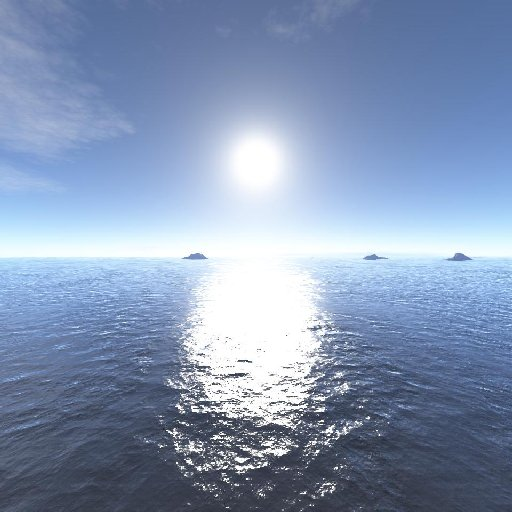
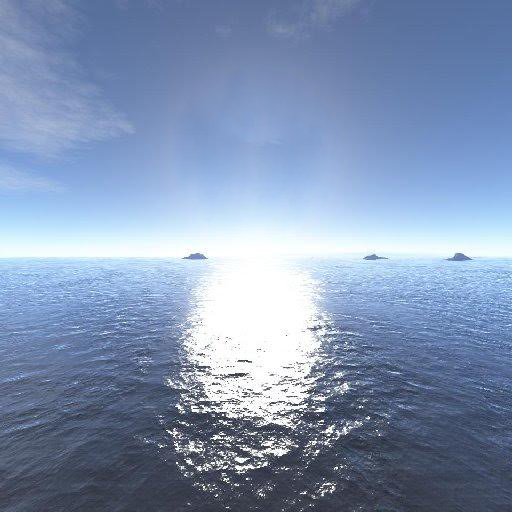
Sunset complete

Changed region(s): [[0.3438, 0.1875, 0.625, 0.4375]]

diff --git a/threejs-starter/app/js/main.js b/threejs-starter/app/js/main.js
@@ -24,60 +24,68 @@ export default class App {
         //Counter for moving ship
         this.counterShip = 0;
 
+
+
+        this.sunAdjust = -0.04;
+        this.lightIntensity = 1.0;
+
         const c = document.getElementById('mycanvas');
         // Enable antialias for smoother lines
         this.renderer = new THREE.WebGLRenderer({canvas: c, antialias: true});
         this.scene = new THREE.Scene();
         this.camera = new THREE.PerspectiveCamera(75, 4/3, 0.5, 1000);
+        this.camera.position.z = 100;
 
         //Position for non VR
         //height of average human 5.6ft standing atop the platform 10ft above water level
-        this.camera.position.set(60, 15.6, 0);
+        //this.camera.position.set(0, 0, 0);
 
 
         // const orbiter = new OrbitControls(this.camera);
         // orbiter.enableZoom = false;
         // orbiter.update();
 
+        this.tracker = new TrackballControls(this.camera, c);
+        this.tracker.rotateSpeed = 2.0;
+        this.tracker.noZoom = false;
+        this.tracker.noPan = false;
+
         window.addEventListener('deviceorientation', event => {
            //TODO: Use event.alpha, event.beta, event.gamma to update camera matrix
         });
 
-        //VR controls
-        const polyfill = new WebVRPolyfill();
-        navigator.getVRDisplays().then(displays => {
-            if (displays.length > 0) {
-                // WebVR is supported
-                display = displays[0];
-                camControl = new VRControls(this.camera);
+        // //VR controls
+        // const polyfill = new WebVRPolyfill();
+        // navigator.getVRDisplays().then(displays => {
+        //     if (displays.length > 0) {
+        //         // WebVR is supported
+        //         display = displays[0];
+        //         camControl = new VRControls(this.camera);
+        //
+        //         //this allows the camera to be set to an initial spot
+        //         this.dolly = new THREE.Group();
+        //         this.dolly.position.set( 0, 15.6, 10 );
+        //         this.scene.add( this.dolly );
+        //         this.dolly.add( this.camera);
+        //
+        //     } else {
+        //         // WebVR is NOT supported, fallback to trackball control
+        //         display = window;
+        //         this.tracker = new TrackballControls(this.camera, c);
+        //         this.tracker.rotateSpeed = 2.0;
+        //         this.tracker.noZoom = false;
+        //         this.tracker.noPan = false;
+        //         camControl = this.tracker;
+        //     }
+        //     //display.requestAnimationFrame(this.render);
+        // });
 
-                //this allows the camera to be set to an initial spot
-                this.dolly = new THREE.Group();
-                this.dolly.position.set( 240, 15.6, 10 );
-                this.scene.add( this.dolly );
-                this.dolly.add( this.camera);
-
-            } else {
-                // WebVR is NOT supported, fallback to trackball control
-                display = window;
-                this.tracker = new TrackballControls(this.camera, c);
-                this.tracker.rotateSpeed = 2.0;
-                this.tracker.noZoom = false;
-                this.tracker.noPan = false;
-                camControl = this.tracker;
-            }
-            //display.requestAnimationFrame(this.render);
-        });
 
 
-        // this.tracker = new TrackballControls(this.camera, c);
-        // this.tracker.rotateSpeed = 2.0;
-        // this.tracker.noZoom = false;
-        // this.tracker.noPan = false;
 
-        const lightOne = new THREE.AmbientLight (0xFFFFFF, 0.5);
-        lightOne.position.set (-50, 40, 100);
-        this.scene.add (lightOne);
+        this.lightOne = new THREE.AmbientLight (0xFFFFFF, this.lightIntensity);
+        //this.lightOne.position.set (-50, 40, 100);
+        this.scene.add (this.lightOne);
 
         this.water = new Floor();
         this.scene.add(this.water);
@@ -92,25 +100,12 @@ export default class App {
 
         this.sun = new Sun();
         this.sun.matrixAutoUpdate = false;
-        let trans = new THREE.Matrix4().makeTranslation(0, 150, 550);
-        this.sun.matrix.multiply(trans);
         this.scene.add(this.sun);
+        let trans = new THREE.Matrix4().makeTranslation(0, 150, 400);
+        this.sun.matrix.multiply(trans);
 
 
-        // var loader = new THREE.ObjectLoader();
-        // loader.load("/app/js/models/fishing-boat-threejs/fishing-boat.json", (obj) => {this.scene.add(obj)});
-
-
-
-        this.thingy = new THREE.Object3D;
         this.loader = new THREE.ObjectLoader();
-
-        //this.fishBoat = null;
-
-        // Cooler container that has images all messed up.
-        //this.loader.load("/app/js/models/boat-threejs/boat.json", (obj) => {this.scene.add(obj)});
-
-
 
         this.fBoat = new FishBoat();
         this.scene.add(this.fBoat);
@@ -147,15 +142,10 @@ export default class App {
 
     }
 
-    // objectLoad(obj){
-    //     this.scene.add(obj);
-    // }
-
-
     render() {
         this.renderer.render(this.scene, this.camera);
-        camControl.update();
-        //this.tracker.update();
+        //camControl.update();
+        this.tracker.update();
         //display.requestAnimationFrame(this.render);
 
         let trans = new THREE.Matrix4().makeTranslation(-0.1,0,0);
@@ -163,9 +153,27 @@ export default class App {
         this.fBoat.matrix.multiply(trans);
         this.fBoat.matrix.multiply(rotY);
 
+        let rotX = new THREE.Matrix4().makeRotationX(THREE.Math.degToRad(this.sunAdjust));
+        this.sun.matrix.premultiply(rotX);
 
+        let position = new THREE.Vector3();
+        position.setFromMatrixPosition( this.sun.matrixWorld );
 
-        requestAnimationFrame(() => this.render());
+        if (position.y < 200 && position.y > 0) {
+            this.sun.editColor(position.y);
+            let intensitySub =  ((200 - position.y) / 200) * 0.7;
+            this.lightIntensity = 1 - intensitySub;
+            this.lightOne.intensity = this.lightIntensity;
+        }
+
+        if (position.y < -50){
+            this.sunAdjust = -0.5;
+            this.sun.dimLight(0);
+        }
+        else{
+            this.sunAdjust = -0.04;
+            this.sun.dimLight(1.0 - this.lightIntensity);
+        }
 
         // Move crane box up and down
         this.counter++;
@@ -198,6 +206,7 @@ export default class App {
             this.counterShip = 0;
         }
 
+        requestAnimationFrame(() => this.render());
 
     }
 

diff --git a/threejs-starter/app/js/models/Sun.js b/threejs-starter/app/js/models/Sun.js
@@ -1,25 +1,43 @@
-import {SphereGeometry, MeshBasicMaterial, Mesh, Group, SpotLight} from 'three';
+import {SphereGeometry, MeshBasicMaterial, Mesh, Group, SpotLight, Color} from 'three';
 //import Water from "/Users/ryanwalt/Downloads/CODE/WebstormProjects/Virtual_Sea_Port/threejs-starter/Images/tex_Water.jpg";
 
-export default class Sun {
+export default class Sun extends Group{
     constructor () {
-        let g = new Group();
+        super();
 
-        var geometry = new SphereGeometry( 5, 32, 32 );
-        var material = new MeshBasicMaterial( {color: 0xffffff} );
-        var sphere = new Mesh( geometry, material );
-        g.add( sphere );
+        this.lightColor = "rgb(255,255,255)"
 
-        var spotLight = new SpotLight(0xffffff, 1.0);
+        var geometry = new SphereGeometry( 25, 32, 32 );
+        var material = new MeshBasicMaterial( {color: this.lightColor} );
+        this.sphere = new Mesh( geometry, material );
+        this.add( this.sphere );
+
+        this.spotLight = new SpotLight(this.lightColor, 1.0);
         //spotLight.castShadow = true;
-        spotLight.shadow.mapSize.width = 2000;
-        spotLight.shadow.mapSize.height = 2000;
-        spotLight.shadow.camera.near = 500;
-        spotLight.shadow.camera.far = 4000;
-        spotLight.shadow.camera.fov = 30;
+        this.spotLight.shadow.mapSize.width = 2000;
+        this.spotLight.shadow.mapSize.height = 2000;
+        this.spotLight.shadow.camera.near = 500;
+        this.spotLight.shadow.camera.far = 4000;
+        this.spotLight.shadow.camera.fov = 30;
+        this.add(this.spotLight);
+    }
 
-        g.add(spotLight);
+    editColor(yVal){
 
-        return g;   // the constructor must return the entire group
+        //let newSub = 200 - ((yVal/200) * 200);
+        let percent = (200 - yVal)/200;
+        let newG = 255 - (percent * 128);
+        let newB = 255 - (percent * 255);
+
+        newG = Math.round(newG);
+        newB = Math.round(newB);
+
+        this.lightColor = "rgb(255," + newG + "," + newB + ")";
+        this.sphere.material.color = new Color(this.lightColor);
+        this.spotLight.color = new Color(this.lightColor);
+    }
+
+    dimLight(val){
+        this.spotLight.intensity = val;
     }
 }

diff --git a/threejs-starter/app/js/models/Skybox.js b/threejs-starter/app/js/models/Skybox.js
@@ -1,4 +1,4 @@
-import {CubeGeometry, MeshFaceMaterial, MeshBasicMaterial, Mesh, Group, DoubleSide, TextureLoader} from 'three';
+import {CubeGeometry, MeshFaceMaterial, MeshPhongMaterial, Mesh, Group, DoubleSide, TextureLoader} from 'three';
 //import Water from "/Users/ryanwalt/Downloads/CODE/WebstormProjects/Virtual_Sea_Port/threejs-starter/Images/tex_Water.jpg";
 
 export default class Skybox {
@@ -9,17 +9,17 @@ export default class Skybox {
         const up = new TextureLoader().load("Images/sea_up.JPG");
         const down = new TextureLoader().load("Images/sea_dn.JPG");
         const right = new TextureLoader().load("Images/sea_lf.JPG");
-        const left = new TextureLoader().load("Images/sea_rt.JPG");
+        const left = new TextureLoader().load("Images/sea_rt.jpg");
 
         let geometry = new CubeGeometry( 900, 900, 900);
         let material =
             [
-                new MeshBasicMaterial({map: front, side: DoubleSide}),
-                new MeshBasicMaterial({map: back, side: DoubleSide}),
-                new MeshBasicMaterial({map: up, side: DoubleSide}),
-                new MeshBasicMaterial({map: down, side: DoubleSide}),
-                new MeshBasicMaterial({map: left, side: DoubleSide}),
-                new MeshBasicMaterial({map: right, side: DoubleSide}),
+                new MeshPhongMaterial({map: front, side: DoubleSide}),
+                new MeshPhongMaterial({map: back, side: DoubleSide}),
+                new MeshPhongMaterial({map: up, side: DoubleSide}),
+                new MeshPhongMaterial({map: down, side: DoubleSide}),
+                new MeshPhongMaterial({map: left, side: DoubleSide}),
+                new MeshPhongMaterial({map: right, side: DoubleSide}),
             ];
 
         let box = new Mesh( geometry, material );
